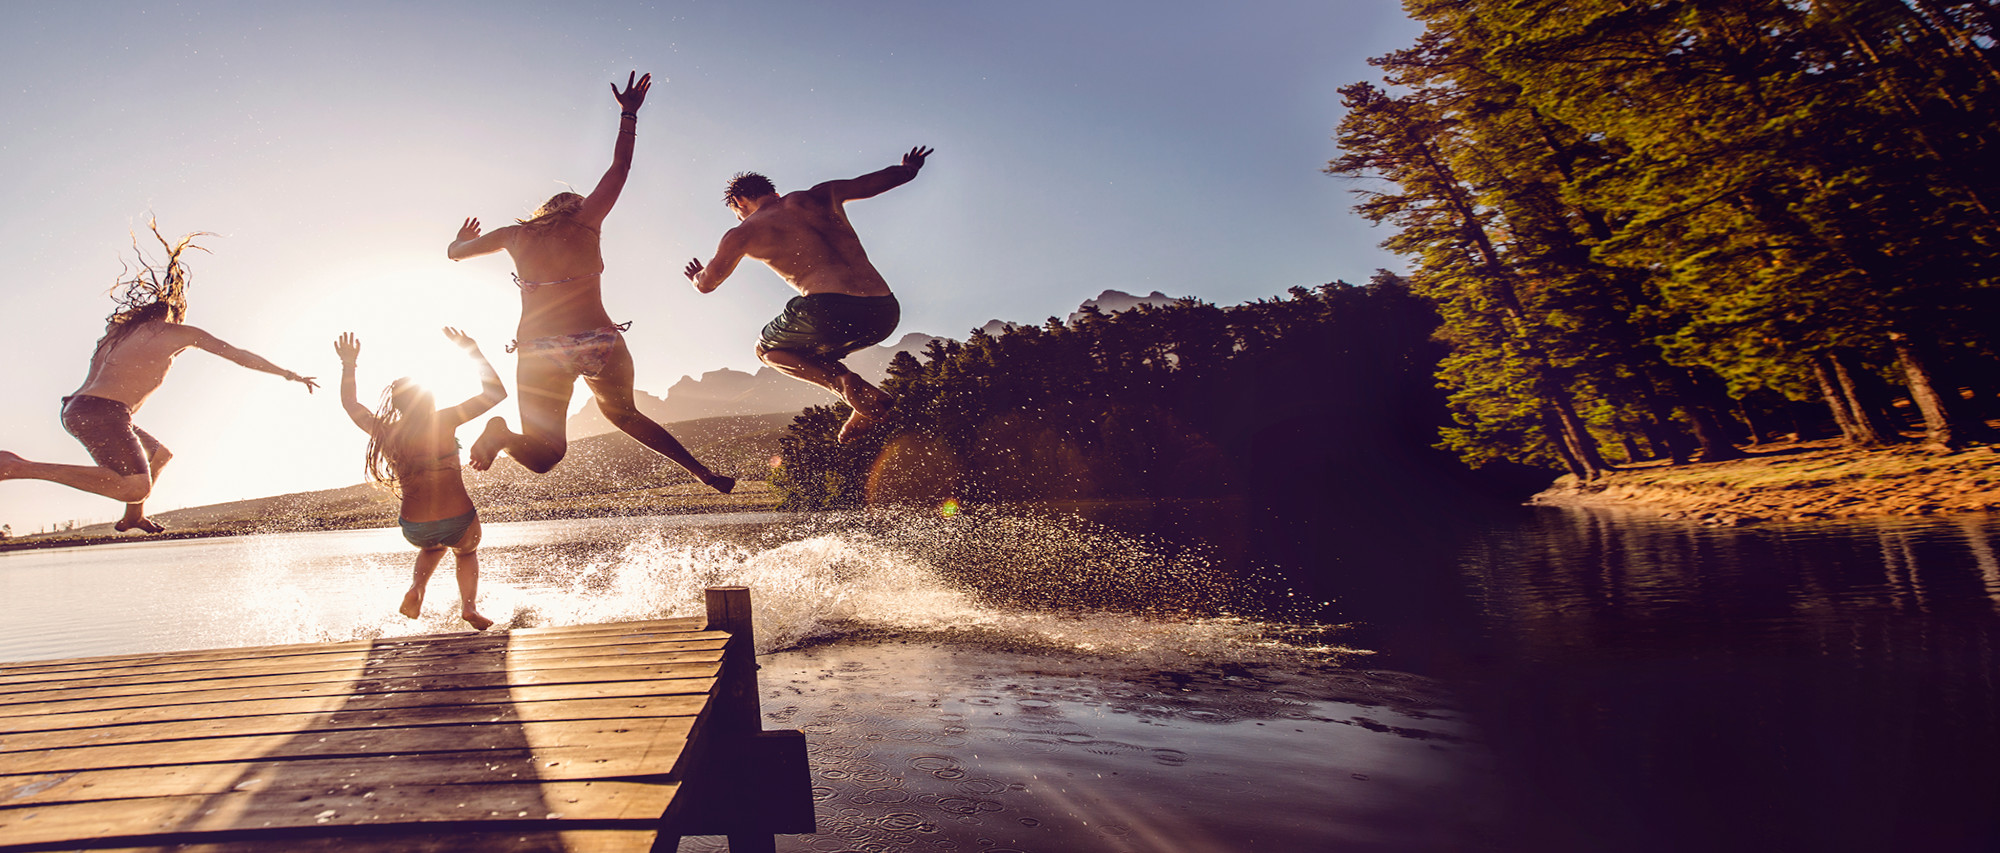
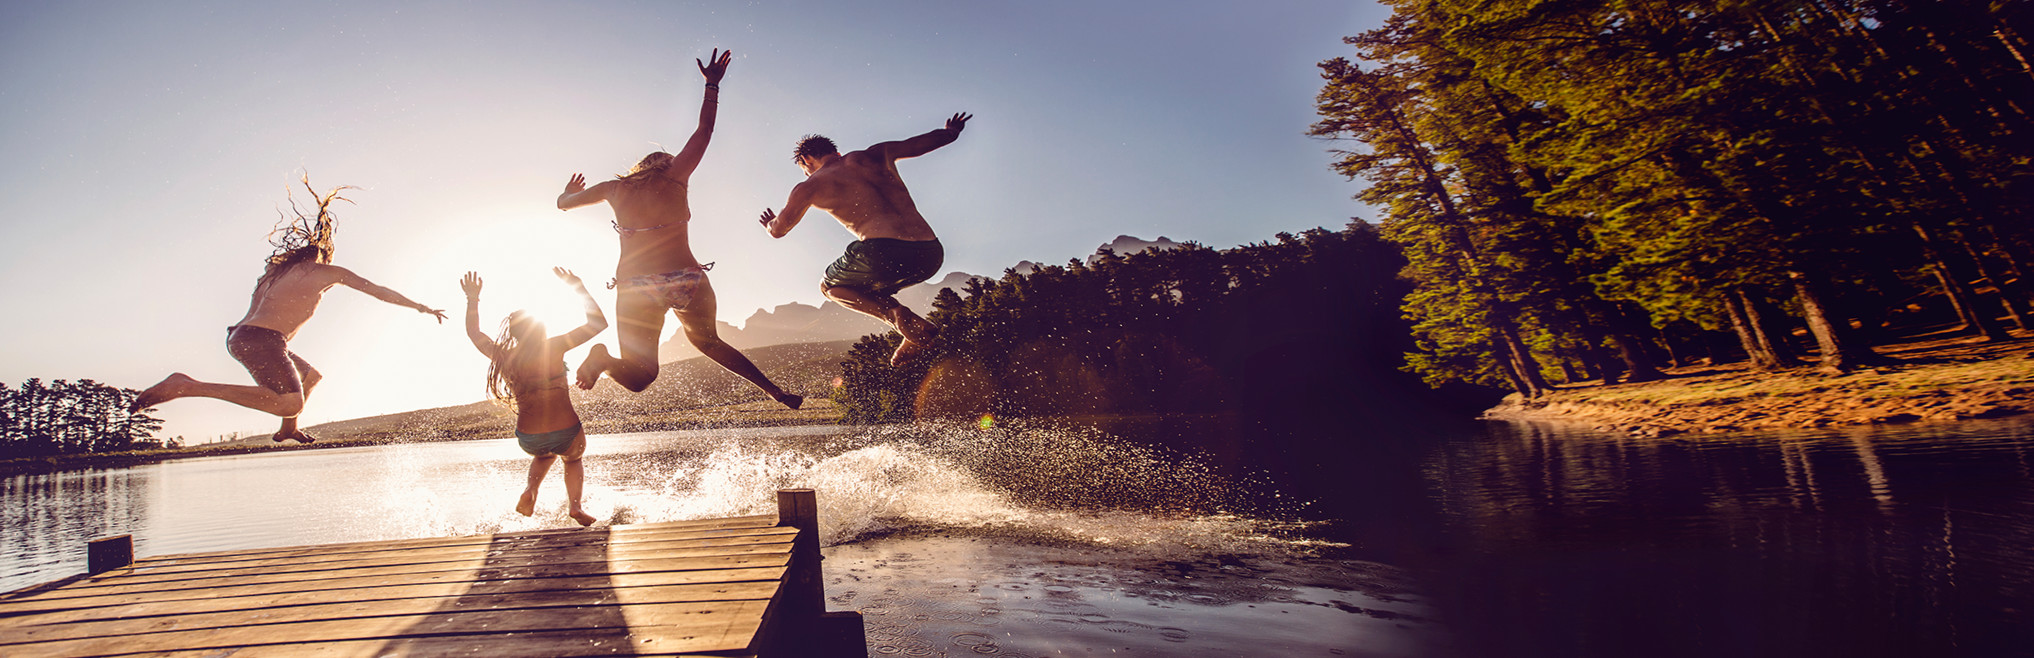
slider updates with other small changes
slider backgrounds and text updates
mobile hand image
added trump video url

diff --git a/index.html b/index.html
@@ -76,7 +76,7 @@
 	    <div class="hero-slider-wrapper">
 	    	<div id="hero-slider" style="width: 100%; height: 720px;">
 		    	<div class="ls-slide" data-ls="transition2d: 5; timeshift: -1000;">
-		    		<div class="ls-l ls-background" style="left: 50%; top: 50%; height: 100%; width: 110%; background: url(img/layerslider/slide-01/bg.jpg) no-repeat center; background-size: cover;" data-ls="parallaxlevel: -5;"></div>
+		    		<div class="ls-l ls-background" style="left: 50%; top: 50%; height: 100%; width: 120%; background: url(img/layerslider/slide-01/bg.jpg) no-repeat center; background-size: cover;" data-ls="parallaxlevel: 10;"></div>
 		    		<!-- text layers -->
 		    		<h2 class="ls-l" data-ls="offsetxin: left; offsetxout: right;" style="top: 40%; left: 50%; white-space: nowrap;">ONE LENS. NO SEAMS.</h2>
 		    		<h2 class="ls-l bold" data-ls="offsetxin: right; offsetxout: left;" style="top: 50%; left: 50%; white-space: nowrap;" white-space: nowrap;>LIMITLESS POSSIBILITIES</h2>
@@ -88,29 +88,29 @@
 		    		<!-- parallax layers -->
 		    		<img src="img/layerslider/slide-02/camera-bottom.png" data-ls="offsetyin: top; offsetyout: top;" style="left: 70%; top: 38%;" class="ls-l" alt="" />
 		    		<!-- text layers -->
-		    		<h2 class="ls-l large-4k" data-ls="offsetyin: top; offsetyout: bottom;" style="top: 50%; left: 50%; white-space: nowrap;">4K<span>IS</span>HERE.</h2>
-		    		<h2 class="ls-l small-4k" data-ls="offsetyin: bottom; offsetyout: top;" style="top: 66%; left: 50%; white-space: nowrap;">NEVER BEFORE HAS ONE BALL<br>CHANGED THE GAME SO MUCH.</h2>
-		    		<img src="img/layerslider/slide-02/camera.png" data-ls="offsetyin: bottom; offsetyout: bottom;" style="left: 20%; top: 96%;" class="ls-l" alt="" />
+		    		<h2 class="ls-l large-4k" data-ls="offsetyin: top; offsetyout: bottom;" style="top: 43%; left: 50%; white-space: nowrap;">4K<span>IS</span>HERE.</h2>
+		    		<h2 class="ls-l small-4k" data-ls="offsetyin: bottom; offsetyout: top;" style="top: 59%; left: 50%; white-space: nowrap;">NEVER BEFORE HAS ONE BALL<br>CHANGED THE GAME SO MUCH.</h2>
+		    		<img src="img/layerslider/slide-02/camera.png" data-ls="offsetyin: bottom; offsetyout: bottom;" style="left: 10%; top: 96%;" class="ls-l" alt="" />
 		    	</div>
 		    	<div class="ls-slide app-slide" data-ls="transition2d: 5; timeshift: -1000;">
 		    		<div class="ls-l" data-ls="offsetxin: 0; offsetyin: 0;" style="left: 50%; top: 50%; height: 100%; width: 100%; background: url(img/layerslider/slide-03/bg.jpg) no-repeat center; background-size: cover;"></div>
 		    		<!-- parallax layers -->
 		    		<img src="img/layerslider/slide-03/devices.png" data-ls="offsetxin: right; fadein: true; scalexin: 800; scaleyin: 800;" style="left: 430px" class="ls-l" alt="" />
 		    		<!-- text layers -->
-		    		<h2 class="ls-l" data-ls="offsetyin: bottom; offsetyout: bottom;" style="top: 35%; left: 0px; width: 400px; white-space: nowrap">LIVE VIDEO'S<br> NEVER BEEN<br> SO ALIVE.</h2>
-		    		<p class="ls-l" data-ls="offsetyin: bottom; delayin: 200; offsetyout: bottom;" style="top: 64%; left: 0px; width: 400px;">With your 360fly camera, the free Livit mobile app and a smartphone, you have the power to live stream interactive 360&#176; video to family and friends around the globe.</p>
-		    		<div class="ls-l hide-for-small-only app-links" data-ls="offsetyin: bottom; delayin: 400; offsetyout: bottom;" style="top: 82%;">
+		    		<h2 class="ls-l" data-ls="offsetyin: bottom; offsetyout: bottom;" style="top: 30%; left: 0px; width: 400px; white-space: nowrap">LIVE VIDEO'S<br> NEVER BEEN<br> SO ALIVE.</h2>
+		    		<p class="ls-l" data-ls="offsetyin: bottom; delayin: 200; offsetyout: bottom;" style="top: 59%; left: 0px; width: 400px;">With your 360fly camera, the free Livit mobile app and a smartphone, you have the power to live stream interactive 360&#176; video to family and friends around the globe.</p>
+		    		<div class="ls-l hide-for-small-only app-links" data-ls="offsetyin: bottom; delayin: 400; offsetyout: bottom;" style="top: 80%;">
 		    			<a href="https://itunes.apple.com/us/app/livit-live-video-and-vr/id896514048?mt=8" target="_blank"><img src="img/layerslider/slide-03/ios-app-btn.png" style="width: 133px;" alt="App Store" /></a>
 		    			<a href="https://play.google.com/store/apps/details?id=com.livitnow.livit&hl=en" target="_blank"><img src="img/layerslider/slide-03/android-app-btn.png" alt="Google play" /></a>
 		    		</div>
-					<img class="ls-l show-for-small-only" data-ls="offsetyin: bottom; delayin: 400; offsetyout: bottom;" style="top: 82%; left: 10px;" src="img/layerslider/slide-03/ios-app-btn.png" alt="App Store" />
-					<img class="ls-l show-for-small-only" data-ls="offsetyin: bottom; delayin: 400; offsetyout: bottom;;" style="top: 82%; left: 153px;" src="img/layerslider/slide-03/android-app-btn.png" alt="Google Play" />
+					<img class="ls-l show-for-small-only" data-ls="offsetyin: bottom; delayin: 400; offsetyout: bottom;" style="top: 80%; left: 10px;" src="img/layerslider/slide-03/ios-app-btn.png" alt="App Store" />
+					<img class="ls-l show-for-small-only" data-ls="offsetyin: bottom; delayin: 400; offsetyout: bottom;;" style="top: 80%; left: 153px;" src="img/layerslider/slide-03/android-app-btn.png" alt="Google Play" />
 		    	</div>
 		        <div class="ls-slide trump-ad" data-ls="transition2d: 5; timeshift: -1000">
 		        	<img class="ls-bg" src="img/layerslider/slide-04/bg.jpg" alt="Trump Ad Spot" />
-		        	<h2 class="ls-l" data-ls="offsetyin: top; offsetyout: bottom;" style="left: 50%; top:44%; white-space: nowrap;">JUST A FLY ON THE WALL.</h2>
-		        	<p class="ls-l" data-ls="offsetyin: bottom; offsetyout: bottom;"style="left: 50%; top:60%; white-space: nowrap">CHECK OUT THE 360fly AD<br>THAT HAS EVERYONE TALKING.</p>
-			        <a href="#" data-ls="offsetyin: bottom; delayin: 200; offsetyout: bottom;" id="trump-trigger" style="left: 50%; top: 75%" class="ls-l button round">WATCH NOW</a>
+		        	<h2 class="ls-l" data-ls="offsetyin: top; offsetyout: bottom;" style="left: 50%; top:40%; white-space: nowrap;">JUST A FLY ON THE WALL.</h2>
+		        	<p class="ls-l" data-ls="offsetyin: bottom; offsetyout: bottom;" style="left: 50%; top:52%; white-space: nowrap">CHECK OUT THE 360fly AD<br>THAT HAS EVERYONE TALKING.</p>
+			        <a href="#" data-ls="offsetyin: bottom; delayin: 200; offsetyout: bottom;" id="trump-trigger" style="left: 50%; top: 71%" class="ls-l button round">WATCH NOW</a>
 			        <div class="ls-l" id="trump-ad" style="left: 50%; top: 50%; width: 1000px; height: 563px;" data-ls="offsetxin: 0; offsetyin: 0;" ></div>  
 
 		        </div>
@@ -444,7 +444,7 @@
          		$('.app-slide').append("<a href='https://itunes.apple.com/us/app/livit-live-video-and-vr/id896514048?mt=8' class='ls-link'></a>");
 		    }
 		    $('#trump-trigger').on('click', function(){
-		    	$('#trump-ad').append('<iframe width="1000" height="563" src="https://www.youtube.com/embed/n-Goc4muL_c?rel=0&amp;controls=0&amp;showinfo=0&autoplay=1" frameborder="0" allowfullscreen></iframe>');
+		    	$('#trump-ad').append('<iframe width="1000" height="563" src="https://www.youtube.com/embed/CVvPPQ3SvAQ?rel=0&amp;controls=0&amp;showinfo=0&autoplay=1" frameborder="0" allowfullscreen></iframe>');
 		    });
 
 		});
@@ -638,7 +638,7 @@
     	}
     );
     var pov_controller = new ScrollMagic.Controller();
-    var pov_scene = new ScrollMagic.Scene({triggerElement: ".pov", triggerHook: "onEnter", duration: "600"}).setTween(pov_tween).addTo(pov_controller);
+    var pov_scene = new ScrollMagic.Scene({triggerElement: ".pov", triggerHook: "onEnter", duration: "500", offset: 300}).setTween(pov_tween).addTo(pov_controller);
 
   
 
@@ -675,7 +675,8 @@
 			duration: .5,
 			options: {
 				ease: Power2.easeOut,
-				top: "+=842",
+				opacity: 1,
+				top: "+=862",
 				rotation: 360
 			}
 		},
@@ -746,6 +747,7 @@
 			options: {
 				ease: Power2.easeOut,
 				top: "+=860",
+				opacity: 1,
 				rotation: 360
 			}
 		},

diff --git a/scss/app.scss b/scss/app.scss
@@ -1534,6 +1534,7 @@ footer {
               left: 173px;
               width: 200px;
               pointer-events: none;
+              opacity: 0;
             }
             .front {
               position: absolute;
@@ -1699,9 +1700,8 @@ footer {
     #hero-slider {
       background-color: $black;
       h2 {
-        font-size: rem-calc(81);
+        font-size: rem-calc(88);
         color: $white !important;
-        font-align: center;
       }
       h2.bold {
         font-family: 'FlySans-Bold', Arial, sans-serif;
@@ -1718,7 +1718,6 @@ footer {
       h2.small-4k {
        font-size: rem-calc(41.5);
        line-height: rem-calc(39);
-       margin-left: 184px !important;
       }
       .app-slide {
         h2 {
@@ -1756,14 +1755,18 @@ footer {
         }
       }
       .trump-ad {
+        .ls-bg {
+          margin-top: 0px !important;
+          background-position: top center;
+        }
         h2 {
           @extend h2.bold;
-          font-size: rem-calc(88.8);
-          line-height: rem-calc(82.7);
+          font-size: rem-calc(69.3);
+          line-height: rem-calc(64.5);
         }
         p {
           color: $white;
-          font-size: rem-calc(59.6);
+          font-size: rem-calc(46.5);
           line-height: initial;
           text-align: center;
         }
@@ -1845,12 +1848,6 @@ footer {
         }
       }
 
-    }
-
-    @media screen and (max-width: 1016px){
-      #hero-slider h2.small-4k {
-        margin-left: 18% !important;
-      }
     }
 
     @media screen and (max-width: 1024px){
